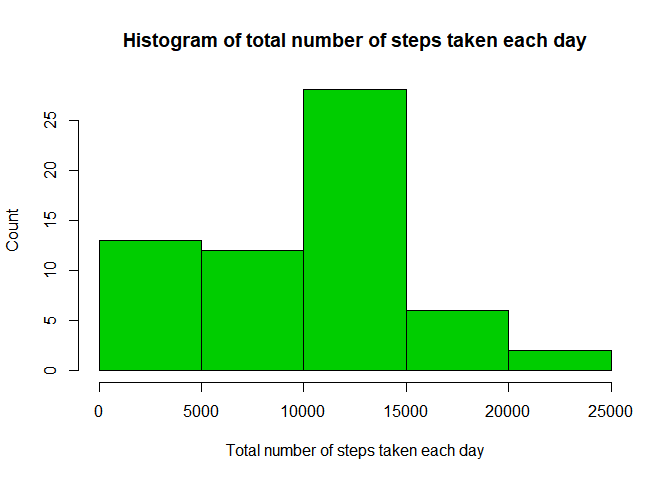
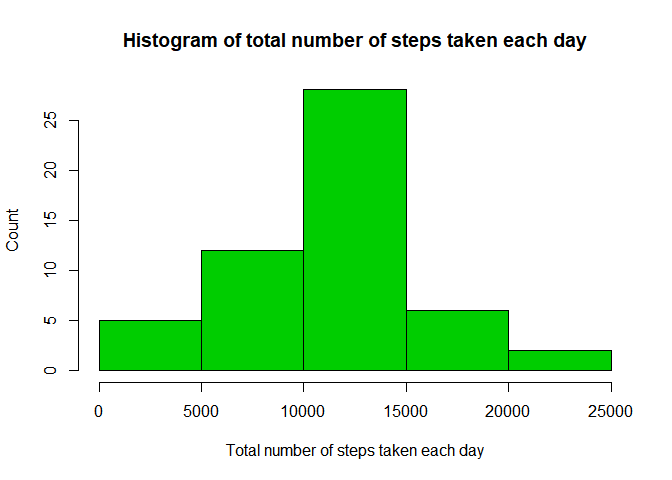
revision

Changed region(s): [[0.125, 0.5, 0.3125, 0.6875]]

diff --git a/PA1_template.html b/PA1_template.html
@@ -132,10 +132,10 @@ library(dplyr)</code></pre>
 <pre class="r"><code>if (!file.exists(&quot;activity.csv&quot;)){
   unzip(&quot;./activity.zip&quot;)
 }
-data = read.csv(&quot;activity.csv&quot;, colClasses = c(&quot;numeric&quot;,&quot;Date&quot;,&quot;numeric&quot;))
+rawdata = read.csv(&quot;activity.csv&quot;, colClasses = c(&quot;numeric&quot;,&quot;Date&quot;,&quot;numeric&quot;))
 
 # We can omit all entries with NA but this will remove the intervals completely 
-# data = na.omit(rawdata)</code></pre>
+data = na.omit(rawdata)</code></pre>
 </div>
 <div id="what-is-mean-total-number-of-steps-taken-per-day" class="section level2">
 <h2>What is mean total number of steps taken per day?</h2>
@@ -151,13 +151,13 @@ data = read.csv(&quot;activity.csv&quot;, colClasses = c(&quot;numeric&quot;,&qu
      ylab=&quot;Count&quot;, 
      main=&quot;Histogram of total number of steps taken each day&quot;,
      col=3)</code></pre>
[2 lines of base64/hex data omitted]
 <ol start="3" style="list-style-type: decimal">
 <li>Calculate and report the mean and median of the total number of steps taken per day</li>
 </ol>
 <pre class="r"><code>meansteps = mean(stepsTaken)
 mediansteps = median(stepsTaken)</code></pre>
-<p>Average number of total steps taken is: 9354.2295082 Median of total steps taken is: 1.039510^{4}</p>
+<p>Average number of total steps taken is: 1.076618910^{4} Median of total steps taken is: 1.076510^{4}</p>
 </div>
 <div id="what-is-the-average-daily-activity-pattern" class="section level2">
 <h2>What is the average daily activity pattern?</h2>
@@ -185,14 +185,15 @@ plot(intervalMean$interval, intervalMean$stepsMean,
 <ol style="list-style-type: decimal">
 <li>Calculate and report the total number of missing values in the dataset (i.e. the total number of rows with NAs)</li>
 </ol>
-<pre class="r"><code>NAs = is.na(data$steps)
+<pre class="r"><code>NAs = is.na(rawdata$steps)
 naNum = sum(NAs)</code></pre>
 <p>Number of missing values in dataset 2304</p>
 <ol start="2" style="list-style-type: decimal">
 <li><p>Devise a strategy for filling in all of the missing values in the dataset. The strategy does not need to be sophisticated. For example, you could use the mean/median for that day, or the mean for that 5-minute interval, etc.</p></li>
 <li><p>Create a new dataset that is equal to the original dataset but with the missing data filled in.</p></li>
 </ol>
-<pre class="r"><code>dataClean = data
+<p>To fill in the NAs, we will take the average number of steps during that 5 minute interval over all days and assign it to that particular NA.</p>
+<pre class="r"><code>dataClean = rawdata
 
 for (i in 1:nrow(dataClean)){
   if (is.na(dataClean$steps[i])){
@@ -216,7 +217,7 @@ hist(stepsTakenCleaned,
 <pre class="r"><code>meanstepsCleaned = mean(stepsTakenCleaned)
 medianstepsCleaned = median(stepsTakenCleaned)</code></pre>
 <p>Average number of total steps taken is: 1.076618910^{4} Median of total steps taken is: 1.076618910^{4}</p>
-<p>The median and mean both have increased.</p>
+<p>Imputing the data changed the median and left the mean unchanged. Mean and median became equal after the process.</p>
 </div>
 <div id="are-there-differences-in-activity-patterns-between-weekdays-and-weekends" class="section level2">
 <h2>Are there differences in activity patterns between weekdays and weekends?</h2>

diff --git a/PA1_template.md b/PA1_template.md
@@ -16,10 +16,10 @@ library(dplyr)
 if (!file.exists("activity.csv")){
   unzip("./activity.zip")
 }
-data = read.csv("activity.csv", colClasses = c("numeric","Date","numeric"))
+rawdata = read.csv("activity.csv", colClasses = c("numeric","Date","numeric"))
 
 # We can omit all entries with NA but this will remove the intervals completely 
-# data = na.omit(rawdata)
+data = na.omit(rawdata)
 ```
 
 ## What is mean total number of steps taken per day?
@@ -52,8 +52,8 @@ meansteps = mean(stepsTaken)
 mediansteps = median(stepsTaken)
 ```
 
-Average number of total steps taken is: 9354.2295082
-Median of total steps taken is: 1.0395\times 10^{4}
+Average number of total steps taken is: 1.0766189\times 10^{4}
+Median of total steps taken is: 1.0765\times 10^{4}
 
 ## What is the average daily activity pattern?
 
@@ -89,7 +89,7 @@ The highest average step count happened during interval 835
 
 
 ```r
-NAs = is.na(data$steps)
+NAs = is.na(rawdata$steps)
 naNum = sum(NAs)
 ```
 
@@ -99,9 +99,12 @@ Number of missing values in dataset 2304
 
 3. Create a new dataset that is equal to the original dataset but with the missing data filled in.
 
+To fill in the NAs, we will take the average number of steps during that 5 minute interval over all days and assign it to that particular NA.
+
+
 
 ```r
-dataClean = data
+dataClean = rawdata
 
 for (i in 1:nrow(dataClean)){
   if (is.na(dataClean$steps[i])){
@@ -136,7 +139,7 @@ medianstepsCleaned = median(stepsTakenCleaned)
 Average number of total steps taken is: 1.0766189\times 10^{4}
 Median of total steps taken is: 1.0766189\times 10^{4}
 
-The median and mean both have increased.
+Imputing the data changed the median and left the mean unchanged. Mean and median became equal after the process.
 
 ## Are there differences in activity patterns between weekdays and weekends?
 
